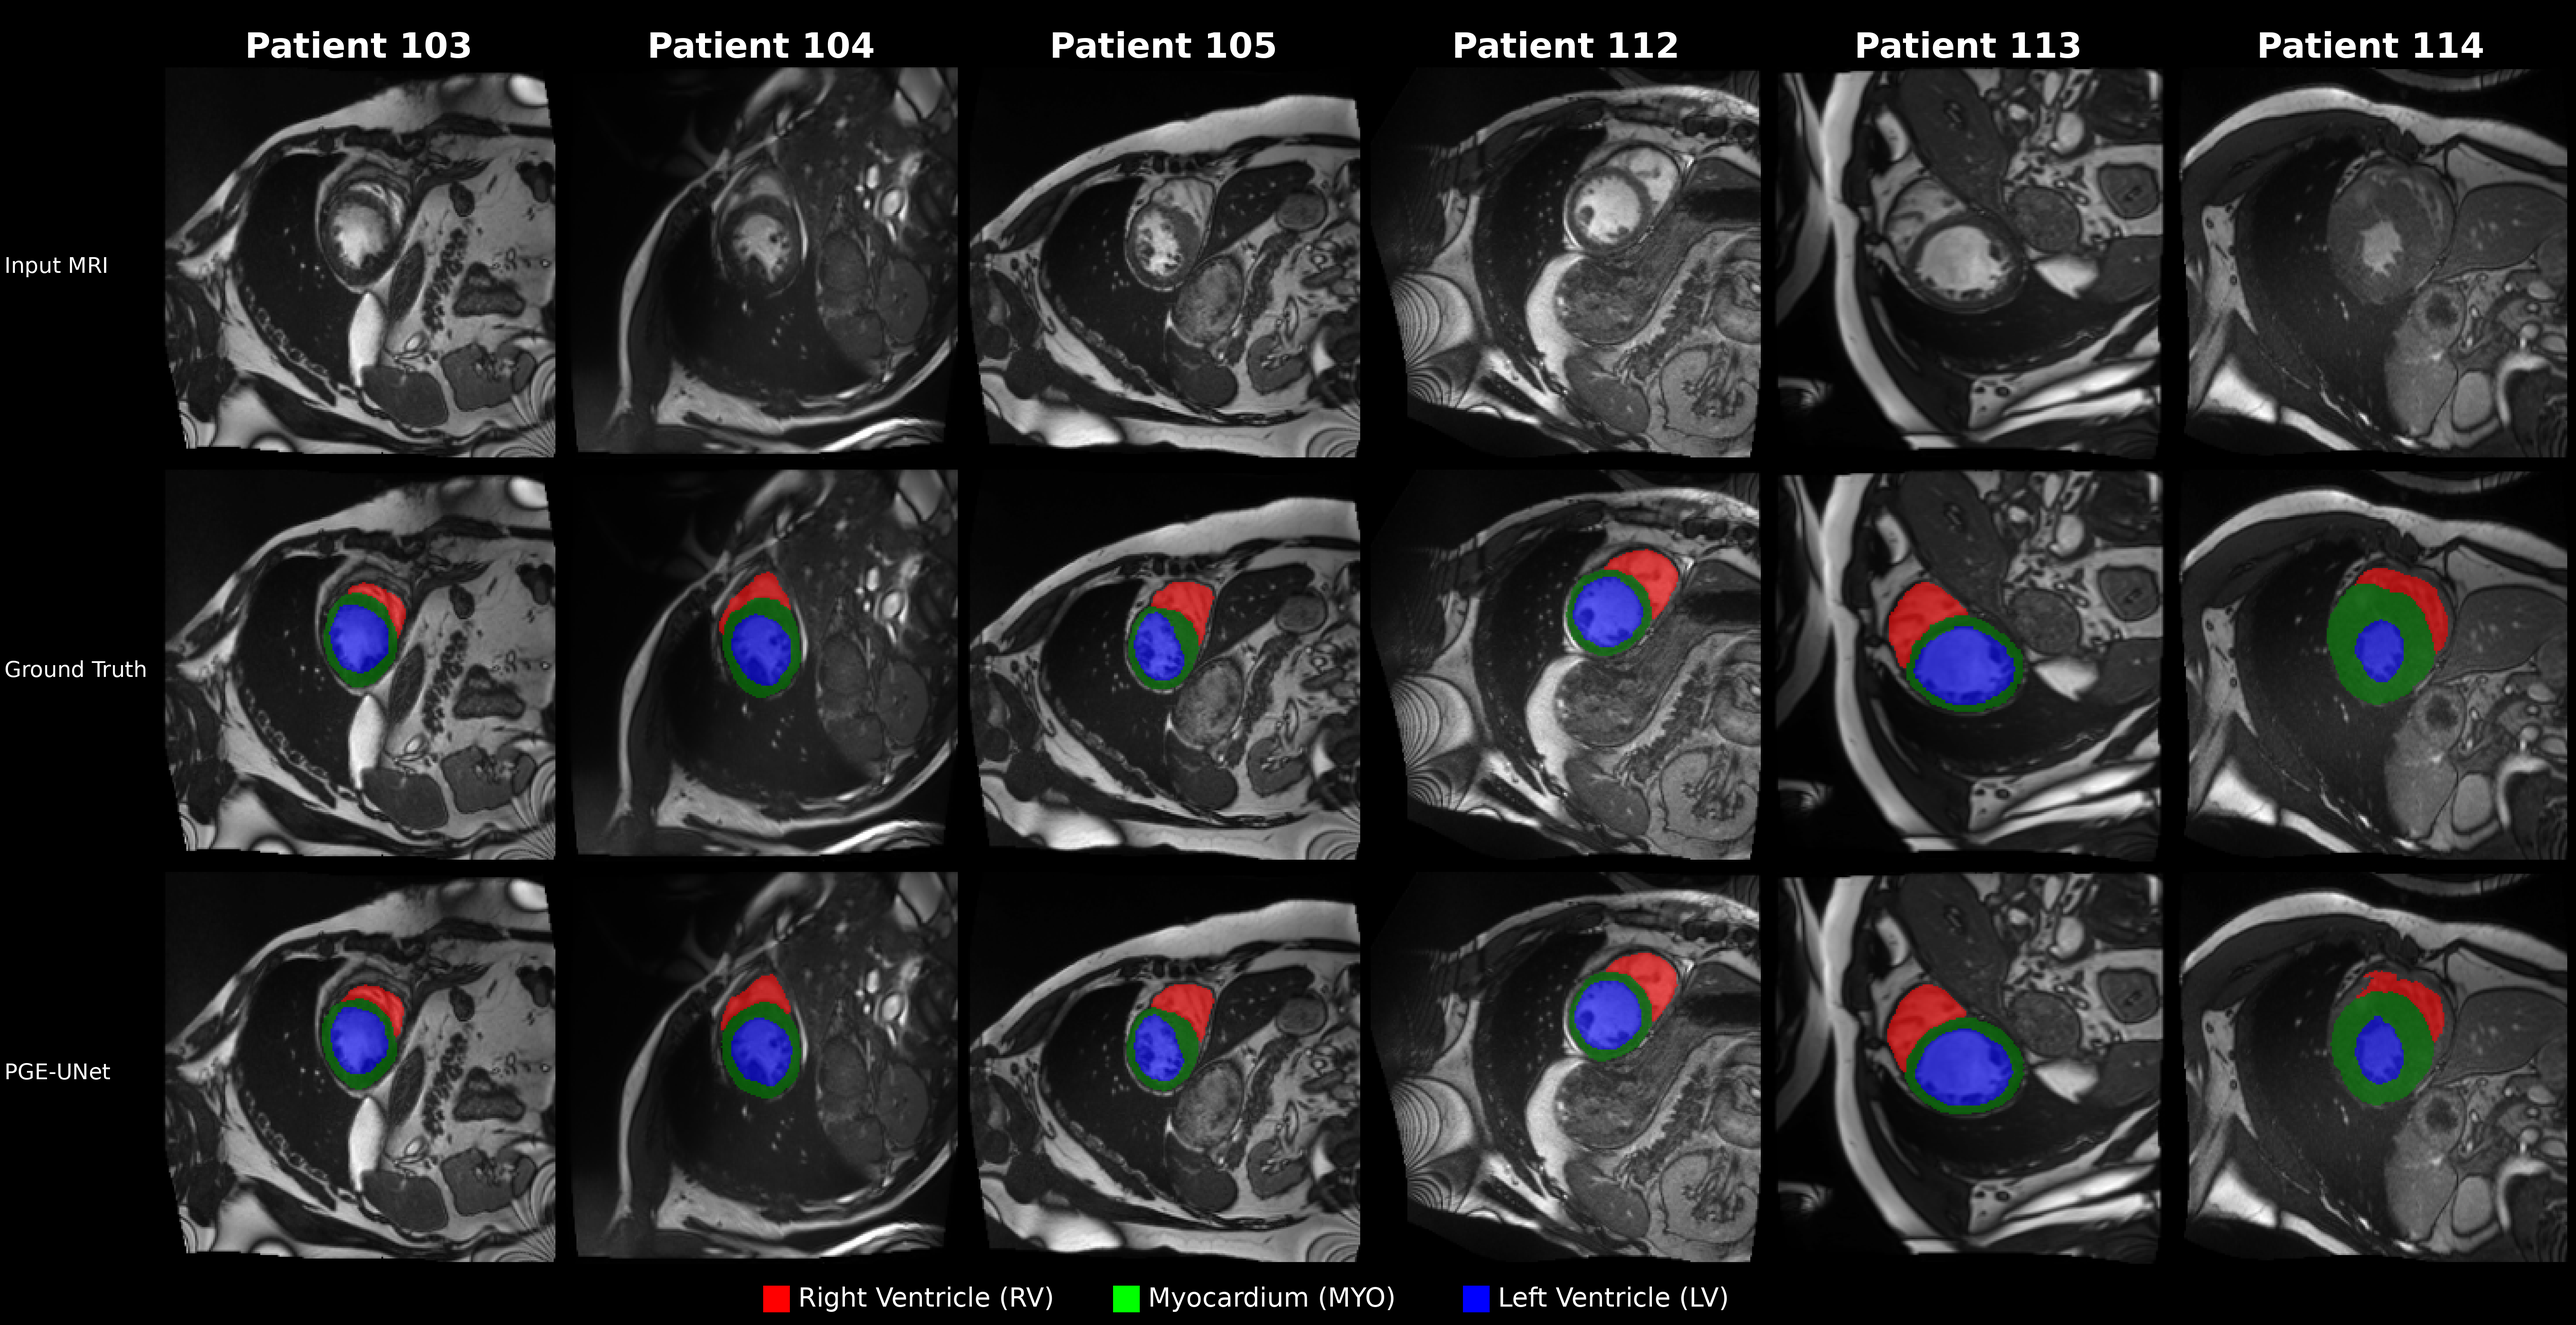
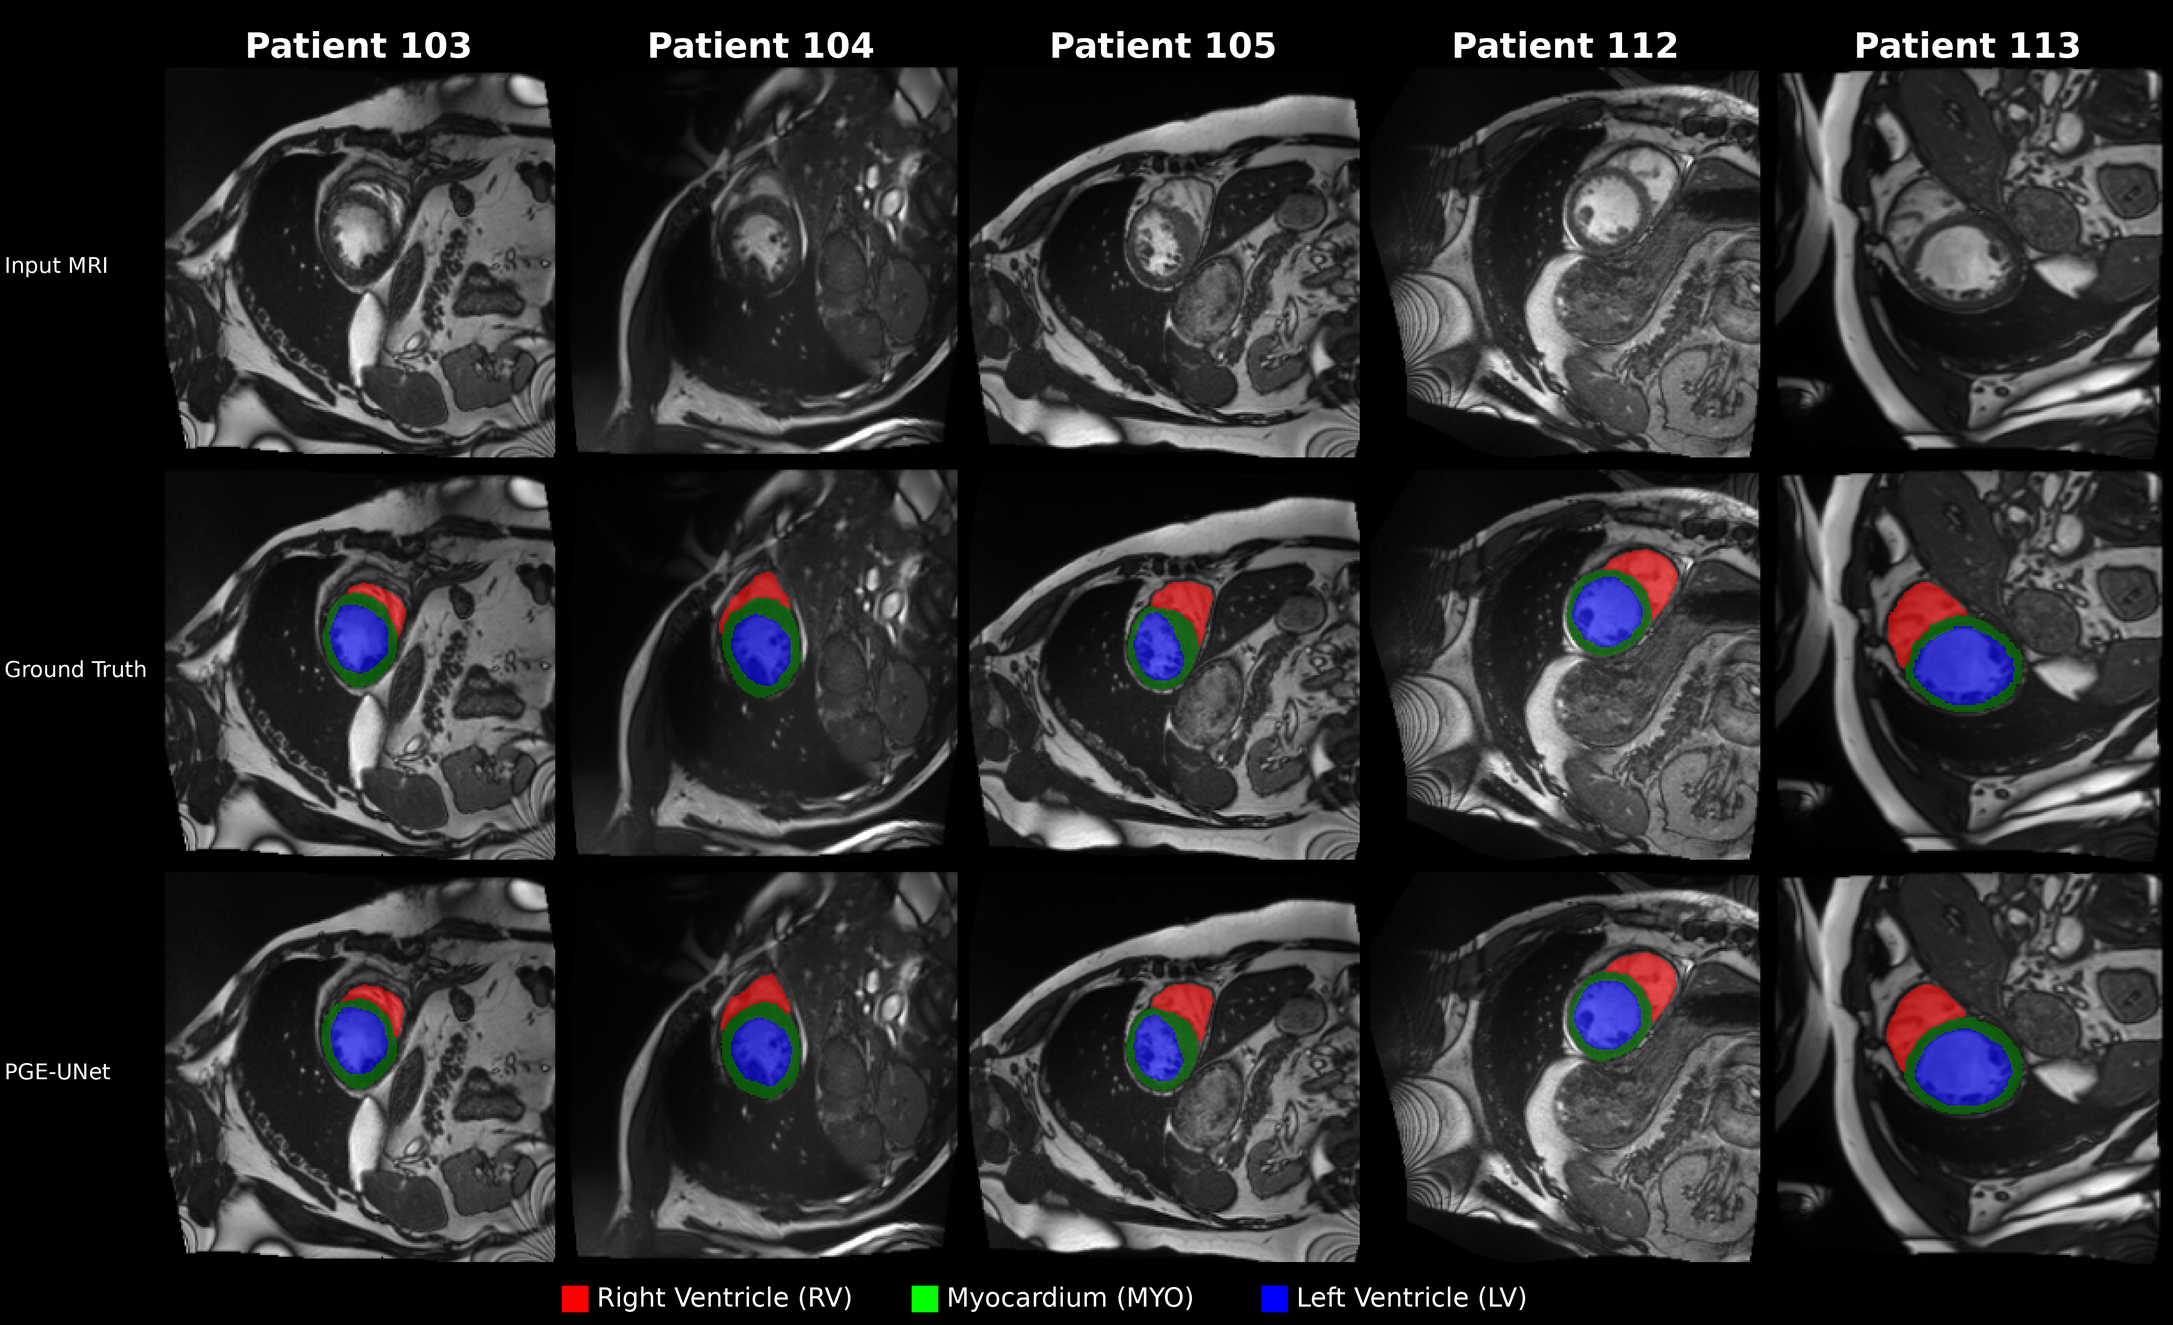
docs: Remove patient 114 from comparison grid in README - Update script to exclude patient 114 per user request - Regenerate grid image (now 5 patients) - Will update README caption to match

diff --git a/scripts/create_comparison_table.py b/scripts/create_comparison_table.py
@@ -13,8 +13,8 @@ VIS_OUTPUT_DIR_LOWER = os.path.join(BASE_DIR, "visualization_outputs", "model_co
 ASSETS_DIR = os.path.join(BASE_DIR, "assets")
 
 # Columns = Patients
-PATIENTS = ["patient103", "patient104", "patient105", "patient112", "patient113", "patient114"]
-PATIENT_LABELS = ["Patient 103", "Patient 104", "Patient 105", "Patient 112", "Patient 113", "Patient 114"]
+PATIENTS = ["patient103", "patient104", "patient105", "patient112", "patient113"]
+PATIENT_LABELS = ["Patient 103", "Patient 104", "Patient 105", "Patient 112", "Patient 113"]
 
 # Rows = Image types
 IMAGE_TYPES = ["InputMRI", "GroundTruth", "PIE-UNet"]
